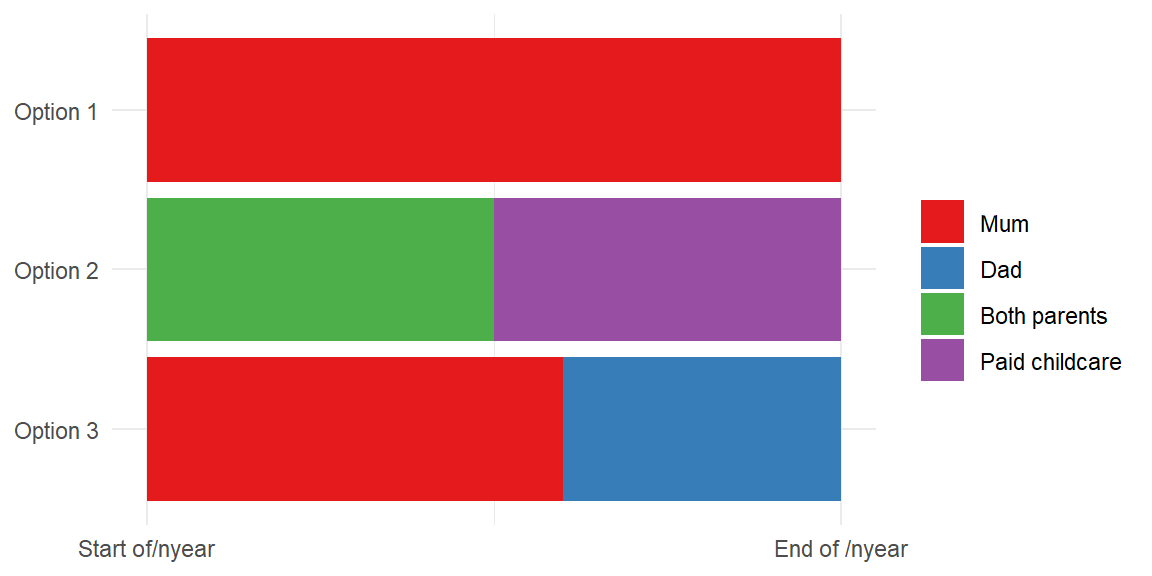
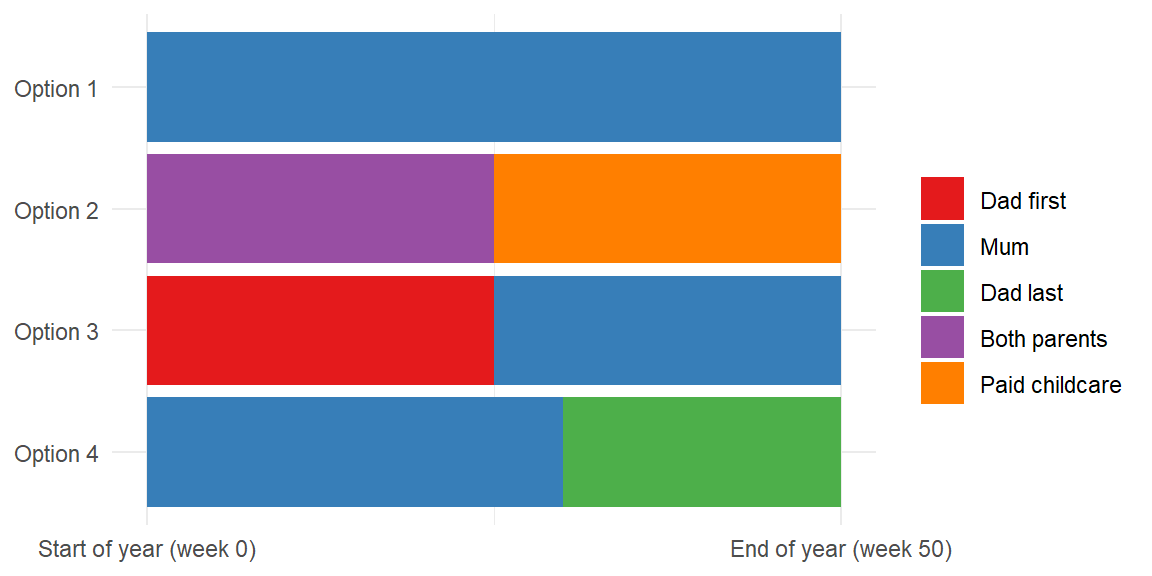
SPL blog added

diff --git a/content/post/2021-09-10-shared-parental-leave/index.en.html b/content/post/2021-09-10-shared-parental-leave/index.en.html
@@ -5,12 +5,24 @@ date: '2021-09-10'
 slug: shared-parental-leave
 categories: []
 tags: []
-weight: 3
-draft: true
+weight: 30
 ---
 
 <script src="{{< blogdown/postref >}}index.en_files/header-attrs/header-attrs.js"></script>
 
 
-<p>This post is to document where we are with Shared Parental Leave in England at the moment and explain it a little more to people who are thinking about taking it.</p>
+<p>This post is to explain where we are with Shared Parental Leave in England at the moment and describe it for people who are thinking about taking it.</p>
+<p>Essentially, <a href="https://www.gov.uk/shared-parental-leave-and-pay">Shared Parental Leave</a> (SPL) is a way of sharing 50 weeks of leave, and 37 weeks of pay between the parents (it can be used for adoption and also when using a surrogate to have a baby). It is a legal requirement for employers to offer it, but the way it is implemented everywhere is different. Anecdotally, smaller employers find it challenging to implement it.</p>
+<p>It is an important opportunity for families in many ways. It gives mothers the opportunity to return to work sooner if they wanted, without the worry of paying or finding for additional childcare, and hence having a child should have a lower impact on their career aspirations. It also allows the father the opportunity to have an extended period of time off work to spend with the new-born child and continue to get paid for it.</p>
+<p>There are different ways you can structure the 50 weeks of SPL. It is possible to use the weeks consecutively between the parents, one after the other. Or you can overlap for all or some of the time, so both parents can make use of this rare opportunity to be together and with the new-born child for an extended period.</p>
+<p>Our aims with our SPL was to maximise the time we spent with Joel without being financially impacted. We also hoped that Natalie could breastfeed him from birth for a few months. This was quite a challenge to arrange, even in the Civil Service. I think it was because SPL is still relatively new, and here are so many different combinations of how employees can make use of it that we really needed to work through the application with both our Department HR teams. Below is an image that simplistically (I hope) outlines our options for SPL.</p>
 <p><img src="{{< blogdown/postref >}}index.en_files/figure-html/infographic-1.png" width="576" /></p>
+<p>Option 1 would simply have been Natalie taking 50 weeks of Maternity Leave. She would have been paid, roughly, full pay for a chunk of it, then reduced pay for another chunk, then statutory pay. This was our baseline financially for considering other options.</p>
+<p>Option 2 would have been lovely! It would have been the two of us having 25 weeks off together at the start, and then returning to work and finding childcare for Joel for the remainder of the year (and beyond). This option would have left us a few grand worse off than Option 1 due to paying for childcare (as we don’t have grandparents that live locally enough to support in that way).</p>
+<p>Option 3 is where I would have taken the first 25 weeks off with Joel and Natalie would have returned to work after her compulsory Maternity Leave (2 weeks I think). Then I would have handed over to Natalie at the halfway stage to see out the rest of the year. We wouldn’t have achieved our ambition to breast feed for the first few months as Natalie wouldn’t have been around enough to do so, and I am not Super Dooper Dad, just Super Dad, so I would have struggled.</p>
+<p>Option 4 was our preferred option. Natalie takes SPL first, then hands over to me after about 7 months. This is what we have ended up doing, but getting to the solution wasn’t as straight forward as it might appear. The HR departments from both of our organisations said that once Maternity Leave starts, the first chunk of full pay begins. Then the pay incrementally decreases based on the timings in the policy. As I was being paid more than Natalie it would have been preferable for our household that I received the full pay, so we can have the same income as we would in Option 1. After some negotiation and analysis of the legislation we managed to agree to structure the pay as such that the weeks that the full pay occurred coincided with my portion of SPL.</p>
+<p>In reality, we have actually had a one month cross over period in the middle where we had a holiday as it also coincided with Kirsten’s summer holiday from school.</p>
+<div id="terminology" class="section level2">
+<h2>Terminology</h2>
+<p>I wanted to add a section on terminology. This is really for anyone happening upon this blog and considering SPL. SPL is different from Paternity Leave (or Adoption Support (Paternity) Leave - I think this is what my organisation calls it). SPL is additional to any Paternity Leave your employer offers. My organisation offers 6 weeks full pay Paternity Leave, which I believe is extremely generous.</p>
+</div>

diff --git a/content/post/2021-09-09-introducing-joel/index.en.html b/content/post/2021-09-09-introducing-joel/index.en.html
@@ -3,7 +3,7 @@ title: Introducing Joel
 author: Dad
 date: '2021-09-09'
 slug: introducing-joel
-weight: 2
+weight: 20
 categories: [joel]
 tags: []
 ---

diff --git a/content/post/2021-08-26-sleep-food-nappy/index.en.html b/content/post/2021-08-26-sleep-food-nappy/index.en.html
@@ -3,7 +3,7 @@ title: Sleep, food, nappy
 author: Dad
 date: '2021-08-26'
 slug: sleep-food-nappy
-weight: 1
+weight: 10
 categories: []
 tags: []
 ---
